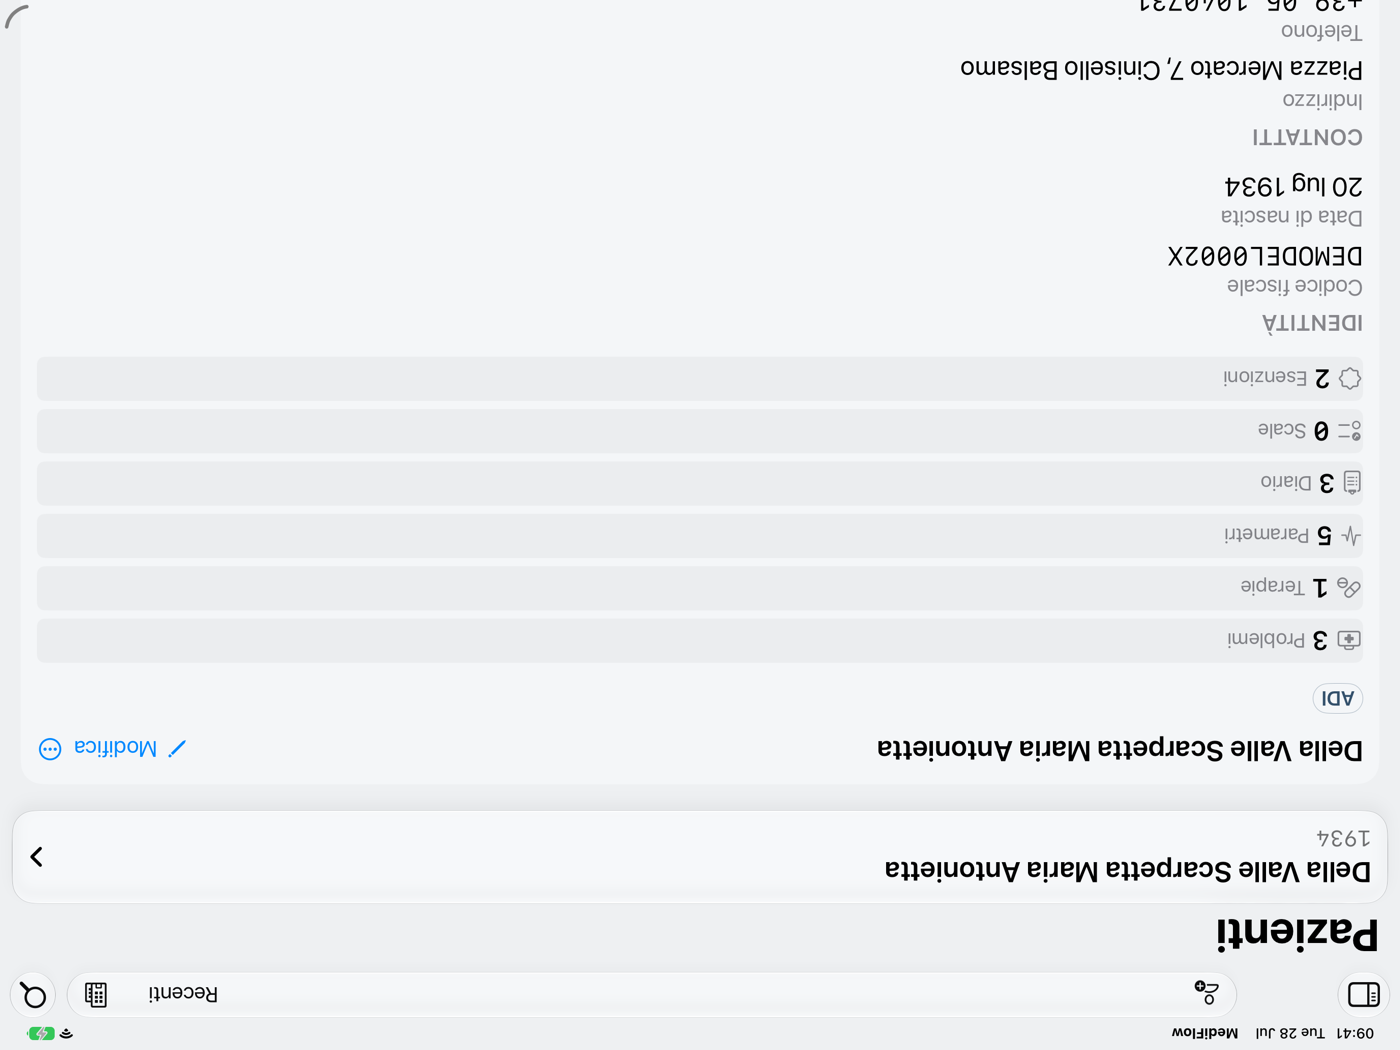
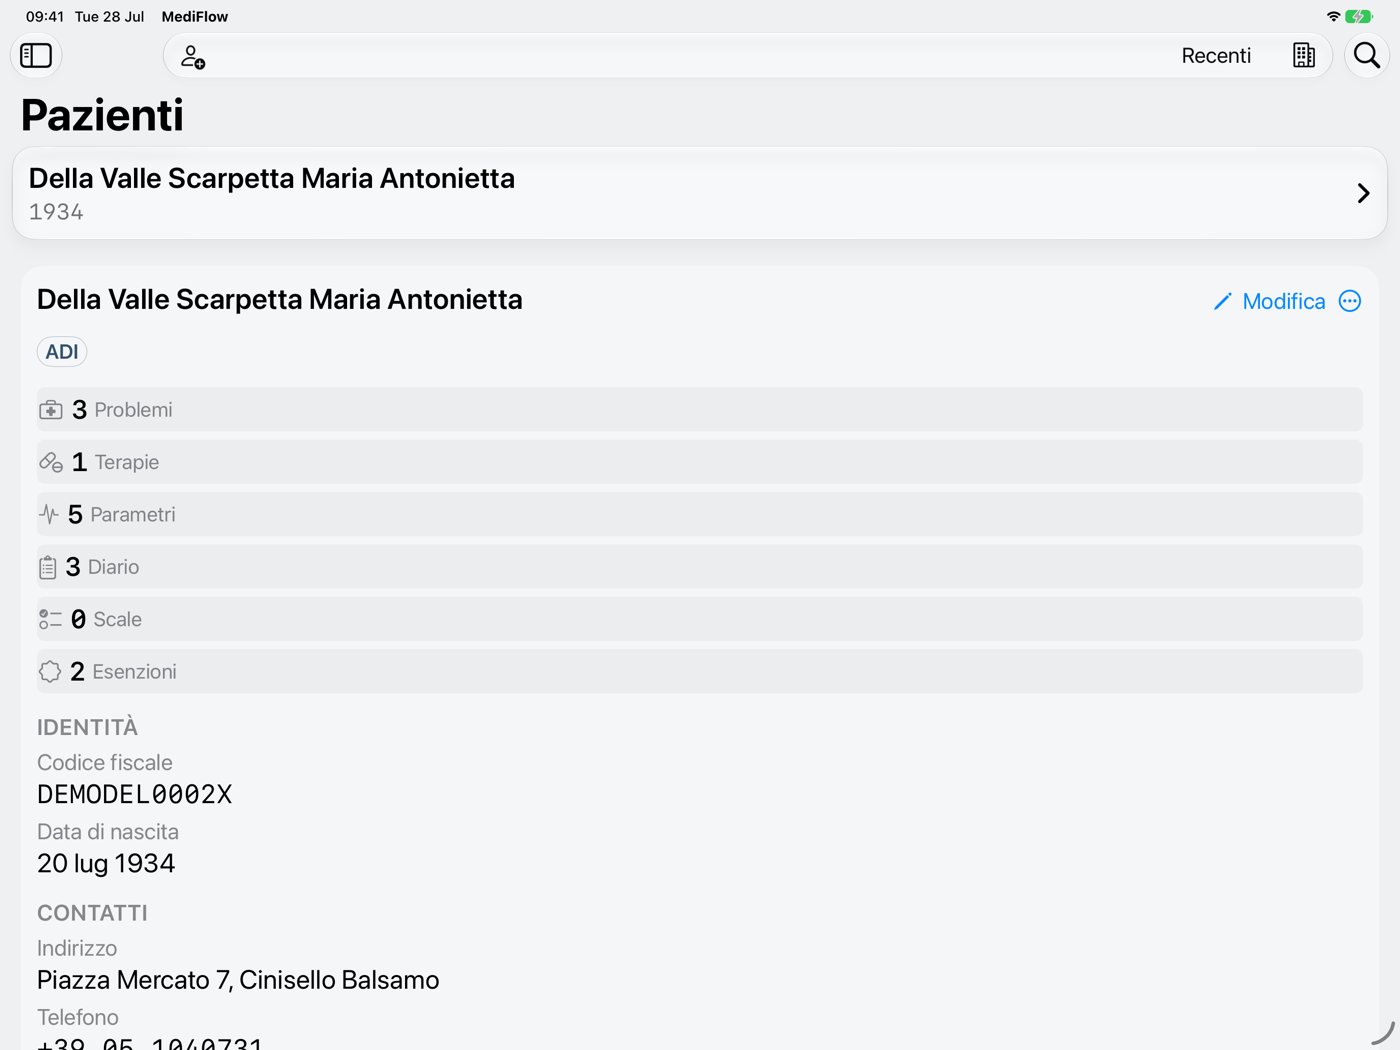
fix(release): correggi audit e screenshot iPad

diff --git a/docs/markdown-index.md b/docs/markdown-index.md
@@ -11,7 +11,7 @@ read_when:
 > GitHub mostra in alto solo alcuni file speciali (`README`, `CONTRIBUTING`, `SECURITY`, ecc.).
 > Questo file elenca invece **tutti** i `.md` tracciati nella repository con una sintesi rapida d'uso.
 
-Ultimo aggiornamento: 2026-07-28
+Ultimo aggiornamento: 2026-07-29
 
 ## 📚 Come usare questo indice
 
@@ -35,6 +35,7 @@ Ultimo aggiornamento: 2026-07-28
 | [docs/adr/0065-intended-purpose-and-claims-guard.md](./adr/0065-intended-purpose-and-claims-guard.md) | Intended purpose e guard `check:claims` contro overclaim su AI, SISS/FSE, cloud, diagnosi, triage, prescrizione e automazione. | Quando si tocca copy prodotto, UI/help, README, materiale pubblico o confini AI/SISS/FSE. |
 | [docs/adr/0072-voice-visit-capture-fluid-boundary.md](./adr/0072-voice-visit-capture-fluid-boundary.md) | Boundary proposto `WUL-419` per visite registrabili Fluid-style: no raw audio/schema/API/UI runtime nella prima slice, transcript/draft PHI e provider esterni solo tramite decisione opt-in. | Quando si lavora su visite registrabili, trascrizione visita, UI web recording-aware, benchmark transcript o sidecar macOS audio. |
 | [CHANGELOG.md](../CHANGELOG.md) | Storico release e cambiamenti rilevanti. | Al bisogno, per contesto versioni. |
+| [CREDITS.md](../CREDITS.md) | Attribuzioni per ispirazioni, modelli, librerie e runtime usati dal progetto. | Quando si verifica provenienza, licenze o uso corretto di contributi esterni. |
 
 ## 🧱 Architettura, flussi e parity
 
@@ -45,15 +46,19 @@ Ultimo aggiornamento: 2026-07-28
 | [docs/topologia-dati-flussi.md](./topologia-dati-flussi.md) | Topologia dati, trust boundaries, cifratura e percorsi digitali, inclusi artifact documentali cifrati e boundary `network-home-base`. | Per analisi data flow e impatti sicurezza. |
 | [docs/repository-topology.md](./repository-topology.md) | Fonte canonica per repository operativa, confine Git/fuori-Git e aree top-level: runtime clinico, publication/site e tooling. | Quando devi scegliere repository, branch o collocazione di codice, asset e artefatti locali. |
 | [docs/parity-matrix.md](./parity-matrix.md) | Stato canonico corrente tra localhost e client Apple, 64 capability con conteggi 30/13/21 e gate P6 residuo in `WUL-481`. | Per steering parity, click-map P6 e release readiness Apple. |
-| [docs/known-limitations.md](./known-limitations.md) | Limiti noti della candidata sorgente 0.8, inclusa la deroga esterna VoiceOver mobile e i claim non autorizzati. | Per release readiness, note pubbliche e claim di accessibilità. |
+| [docs/known-limitations.md](./known-limitations.md) | Limiti noti della candidata sorgente 0.8, inclusi VoiceOver mobile, tooling di sviluppo e claim non autorizzati. | Per release readiness, note pubbliche, security posture e claim di accessibilità. |
 | [docs/ARCHITETTURA.md](./ARCHITETTURA.md) | Deep dive tecnico esteso dell'architettura MediFlow. | Per approfondimenti implementativi. |
 | [docs/system_architecture.md](./system_architecture.md) | Sintesi rapida dell'architettura operativa aggiornata al `main` corrente: Clinical Workbench unico, home-base, document intelligence, OCR platform boundary, SISS/FSE e guardrail locali. | Per overview veloce in onboarding/review. |
+| [drizzle/README.md](../drizzle/README.md) | Ruolo storico delle migrazioni Drizzle e relazione con le schema guard runtime. | Quando si modifica schema, indice o controllo di drift SQLite. |
 
 ## 🍎 Native, setup e testing
 
 | File | Scopo | Quando consultarlo |
 | --- | --- | --- |
 | [docs/NATIVE.md](./NATIVE.md) | Guida canonica della family Apple attiva: bundle macOS packaged/home-base, client iPhone/iPad paired e core Swift condiviso. | Per struttura, build, boundary di sicurezza/parity e verifiche native correnti. |
+| [native/README.md](../native/README.md) | Layout, toolchain e comandi della universal app Apple e del package Swift condiviso. | Per build, test e orientamento nel subtree `native/`. |
+| [native/contracts/README.md](../native/contracts/README.md) | Oracoli byte-exact del core cross-platform, inclusi i vettori crittografici congelati. | Quando si modifica crittografia, portabilità del core o test golden. |
+| [native/MediFlowMac/Sources/MediFlowSQLiteC/README.md](../native/MediFlowMac/Sources/MediFlowSQLiteC/README.md) | Provenienza e regole di aggiornamento della SQLite amalgamation inclusa nel package nativo. | Quando si aggiorna SQLite vendorizzata o la build C multipiattaforma. |
 | [docs/native-setup.md](./native-setup.md) | Setup automatico ambiente client nativo. | Prima di avviare sviluppo/test native. |
 | [docs/native-launch.md](./native-launch.md) | Avvio rapido app macOS via script/launcher. | Per esecuzione operativa locale. |
 | [docs/local-api-tls.md](./local-api-tls.md) | TLS proxy locale e trasporto sicuro per native API. | Per debug networking/certificate pinning. |
@@ -93,8 +98,13 @@ Ultimo aggiornamento: 2026-07-28
 | [docs/analysis/2026-07-05-audit-esterno-v2-triage.md](./analysis/2026-07-05-audit-esterno-v2-triage.md) | Triage secondario dell'audit esterno V2, collegato a `WUL-470` e figlie `WUL-471`..`WUL-475`, con separazione tra obiezioni misframed e residui azionabili su PIN, FHIR, MDR, sync futuro e drift ADR. | Quando si rivedono le issue nate dall'audit esterno V2 o serve recuperare il razionale completo dietro il tracker Linear. |
 | [docs/analysis/2026-07-12-evoluzione-stack-intelligente-euristiche-scaffold-roadmap.md](./analysis/2026-07-12-evoluzione-stack-intelligente-euristiche-scaffold-roadmap.md) | Closeout secondario di provider scaffold, control-flow, attese locali e roadmap dello stack intelligente, riallineato alla verita di `main`. | Quando si pianifica una nuova slice AI/euristica o si verifica cosa resta oltre le PR #39, #41, #42 e #43. |
 | [docs/analysis/2026-07-17-installabilita-v0-scope.md](./analysis/2026-07-17-installabilita-v0-scope.md) | Scope e proof macOS per WUL-455: confronto bundle Node, Tauri sidecar ed Electron, raccomandazione v0, build riproducibile e limiti non provati. | Quando si pianifica l'installabilita o si verifica la proof macOS avviabile senza Node installato sulla macchina di esecuzione. |
+| [docs/analysis/2026-07-26-apple-intelligence-dettatura-e-sintesi-on-device.md](./analysis/2026-07-26-apple-intelligence-dettatura-e-sintesi-on-device.md) | Mappa read-only delle API Apple on-device per dettatura e sintesi, senza decisione o funzione attivata. | Quando si valuta una futura capacità Apple Intelligence o il relativo confine privacy. |
+| [docs/analysis/2026-07-26-handover-interfaccia-apple.md](./analysis/2026-07-26-handover-interfaccia-apple.md) | Handover storico della prima armonizzazione UI Apple universale, con rettifiche e prove disponibili. | Quando si ricostruisce la provenienza del lavoro UI Apple precedente alla candidata 0.8. |
+| [docs/analysis/2026-07-27-parita-funzioni-quattro-superfici.md](./analysis/2026-07-27-parita-funzioni-quattro-superfici.md) | Inventario storico di 186 azioni e dei divari tra web, iPhone, iPad e macOS. | Quando si confronta la matrice canonica corrente con il rilevamento iniziale dei divari. |
 | [docs/markdown-index.md](./markdown-index.md) | Indice completo markdown con sintesi. | Per navigazione completa e controllo copertura doc. |
 | [docs/openapi/README.md](./openapi/README.md) | Runbook operativo per manutenzione della spec OpenAPI `/api/v1`. | Quando si cambia il contratto client-facing o si fa review di drift. |
+| [docs/design/2026-07-26-agenda-clinica-e-scadenze.md](./design/2026-07-26-agenda-clinica-e-scadenze.md) | Intento di prodotto post-0.8 per un'agenda centrata su scadenze cliniche e terapeutiche. | Quando si pianifica l'evoluzione dell'agenda senza confonderla con lo stato consegnato. |
+| [docs/design/2026-07-26-cosa-mutuare-analisi-esterna.md](./design/2026-07-26-cosa-mutuare-analisi-esterna.md) | Confronto critico con studi e prodotti esterni per ridurre attrito senza impoverire l'informazione clinica. | Quando si valutano scelte di gerarchia, carico cognitivo o consolidamento dei flussi. |
 | [docs/design/vetro-clinico/README.md](./design/vetro-clinico/README.md) | Ingresso della baseline storica e transitoria Vetro Clinico: glossario, ordine di lettura, regole redazionali e precedenza. | Quando serve riconciliare una superficie transitoria senza usarla come destinazione attiva. |
 | [docs/design/vetro-clinico/01-fondamenta.md](./design/vetro-clinico/01-fondamenta.md) | Principi, audit onesto della baseline Vetro Clinico e decisioni vincolanti di transizione. | Quando serve distinguere stato rilevato, debito e direzione di design separata. |
 | [docs/design/vetro-clinico/02-token.md](./design/vetro-clinico/02-token.md) | Architettura token a tre livelli, palette semantica, tipografia, geometria, motion e azioni di consolidamento. | Quando si valuta una modifica a colore, corpo testo, raggio, ombra, blur o durata. |
@@ -115,7 +125,10 @@ Ultimo aggiornamento: 2026-07-28
 | [docs/design/lume/04-perlustrazione.md](./design/lume/04-perlustrazione.md) | Perlustrazione EHR/provider dietro la grammatica dell'attenzione: tre lane GPT-5.6 (applicativi USA, gestionali GP, design system sanitari aperti), 12 integrazioni normative, rifiuti, spazio bianco competitivo. | Quando si raffina worklist, provenienza, sicurezza o si studia il mercato dei gestionali. |
 | [docs/design/lume/05-app-native.md](./design/lume/05-app-native.md) | Lume nelle app native: mappa SwiftUI, grammatica compatta iPhone e note tri-OS prospettiche, con macOS come priorita operativa. | Quando si implementa Lume sui client Apple; non apre una lane Windows/Linux. |
 | [docs/design/lume/06-macos-apple-contract.md](./design/lume/06-macos-apple-contract.md) | Contratto Lume per l'app macOS reale e la futura superficie nativa primaria: card clinica opaca consegnata, componenti interni e gate ancora parziali. | Prima di progettare o implementare una superficie Lume su macOS. |
+| [docs/design/lume/07-gesto-e-movimento.md](./design/lume/07-gesto-e-movimento.md) | Grammatica Lume per gesto, movimento, focus, stato e continuità, con reduced motion per costruzione. | Quando si implementano o verificano animazioni, transizioni e feedback di interazione. |
+| [docs/design/lume/08-matrice-viste.md](./design/lume/08-matrice-viste.md) | Matrice vista-per-vista, criteri golden e ordine di migrazione delle superfici Lume. | Quando si pianifica una slice Lume o si definiscono screenshot e contratti AX. |
 | [docs/design/lume/09-icona.md](./design/lume/09-icona.md) | Specifica dell'icona MediFlow per macOS, iOS e web, con asset approvati e criteri di integrazione. | Quando si cablano o si verificano le icone dell'app e del web. |
+| [docs/design/lume/10-superficie-e-materiale.md](./design/lume/10-superficie-e-materiale.md) | Proposta misurata per la convergenza tra superfici Lume e materiali Apple. | Quando si valuta materiale, contrasto o gerarchia delle superfici; non trattarla come canone adottato. |
 | [docs/design/wul-271-kree8-visual-translation.md](./design/wul-271-kree8-visual-translation.md) | Traduzione visiva Kree8 → MediFlow per PIN gate, root entry live `/`, first real-patient cockpit slice e alias review `/mockups/kree8` (WUL-271/WUL-272/WUL-273/WUL-274). | Quando si rivede la nuova linea visuale Kree8, si verifica la root live con dati reali o si pianifica la migrazione delle superfici legacy. |
 
 ## 🧱 ADR (decisioni architetturali)
@@ -162,6 +175,8 @@ Ultimo aggiornamento: 2026-07-28
 | [docs/adr/0065-intended-purpose-and-claims-guard.md](./adr/0065-intended-purpose-and-claims-guard.md) | Fissa `WUL-279`: intended purpose, claim consentiti/esclusi e guard repo-local `check:claims` contro overclaim clinico/regolatorio. |
 | [docs/adr/0066-patient-soft-delete-lifecycle.md](./adr/0066-patient-soft-delete-lifecycle.md) | Fissa `WUL-306`: DELETE paziente come tombstone soft-delete version-guarded, cascade canonica `PATIENT_CHILD_TABLES` con guardia anti-drift, purge admin audited (`patient.purged`) e clear test-container per membership (WUL-322). |
 | [docs/adr/0068-cross-platform-runtime-windows-linux.md](./adr/0068-cross-platform-runtime-windows-linux.md) | Fissa `WUL-375`: runtime cross-platform Windows/Linux con adapter scheduler backup, gating MLX/PM2 a macOS, launcher sottili per OS e contratto unico Node 24/ABI nativa per installazione, build e avvio. |
+| [docs/adr/0070-in-house-first-for-buildable-logic.md](./adr/0070-in-house-first-for-buildable-logic.md) | Fissa l'approccio in-house-first per logica integrabile, dati ICD e moduli locali senza dipendenze opzionali obbligatorie. |
+| [docs/adr/0071-tri-os-reversed-flow-shared-core.md](./adr/0071-tri-os-reversed-flow-shared-core.md) | Definisce la direzione tri-OS a flusso invertito e i gate per un core nativo condiviso; non descrive la runtime 0.8 corrente. |
 | [docs/adr/0072-voice-visit-capture-fluid-boundary.md](./adr/0072-voice-visit-capture-fluid-boundary.md) | Propone `WUL-419`: boundary local-first per visite registrabili Fluid-style, transcript/draft PHI, provider esterni solo tramite opt-in e no runtime audio nella prima slice. |
 | [docs/adr/0073-treatment-reasoning-athena-boundary.md](./adr/0073-treatment-reasoning-athena-boundary.md) | Fissa la boundary `mediflow.treatment_reasoning.v1`: runtime locale ATHENA/MLX review-only con kill switch fail-closed, report/trace ATHENA-style e suggested actions solo review/form-prefill senza auto-write clinici. |
 | [docs/adr/0074-network-cross-patient-read-boundary.md](./adr/0074-network-cross-patient-read-boundary.md) | Fissa le letture network cross-paziente: scope obbligatorio per membership, capability dedicate, filtri plaintext, ciphertext opaco e limit con cap. |

diff --git a/docs/analysis/2026-07-27-parity-0.8-recovery-run.md b/docs/analysis/2026-07-27-parity-0.8-recovery-run.md
@@ -1719,3 +1719,52 @@ Promotion rule:
 3. push non forzato solo dopo `APPROVE_POST_COMMIT`;
 4. verifica che il ref remoto punti al commit esatto;
 5. nessun merge, tag, GitHub Release, PR o chiusura issue.
+
+### 15.32 Fresh verifier post-commit e correzioni
+
+Il safe commit iniziale era:
+
+- commit: `9393a7ef3a3050f4e5700cc5f86f159888089464`;
+- tree: `35982cd6fac85f234d914ebe3e1ac4da58e3eb43`;
+- parent: `2355a46a4dde63b1956a2298d99ef0b5c4208222`;
+- 36 path, 2395 inserimenti e 122 rimozioni;
+- worktree pulito e index vuoto.
+
+Il fresh verifier indipendente `gpt-5.6-sol/high` ha emesso
+`BLOCKED_POST_COMMIT`. Ha trovato tre falsificatori:
+
+1. `CHANGELOG.md` dichiarava 6 rilievi `npm audit`, mentre l'audit live ne
+   registrava 21 nel tooling di sviluppo;
+2. `ipados-detail.png` e l'originale erano capovolti;
+3. l'indice Markdown dichiarato completo ometteva 15 file tracciati.
+
+Il controller non ha eseguito il push.
+
+Correzioni:
+
+- changelog e limitazioni note registrano 21 rilievi dev-tooling:
+  1 low, 5 moderate, 15 high e zero critical;
+- `npm audit --omit=dev` resta PASS con zero vulnerabilità production;
+- l'immagine iPad detail, originale e ottimizzata, è stata ruotata di 180
+  gradi; il manifest registra la normalizzazione totale di 270 gradi e i nuovi
+  hash;
+- i 15 Markdown mancanti sono stati aggiunti all'indice.
+
+La lane read-only `gpt-5.6-terra/high` ha valutato una remediation delle
+dipendenze. Un candidato temporaneo portava l'audit completo a zero, ma:
+
+- forzava `esbuild` e `brace-expansion` fuori dai range dei consumer;
+- introduceva ESLint 10 con peer transitivi non allineati;
+- modificava 172 nodi del lockfile, inclusi due pacchetti browser-data di
+  produzione;
+- falliva `npm ci --dry-run --ignore-scripts --strict-peer-deps`.
+
+Verdetto della lane: `REJECT_OVERRIDE`.
+
+Decisione:
+
+- non assorbire una toolchain incompatibile nella candidata 0.8;
+- mantenere il rischio dev-tooling aperto e pubblico;
+- richiedere un packet dipendenze separato, senza override fuori range e con
+  regressione completa;
+- ripetere commit sicuro e fresh verifier sul nuovo hash prima del push.

diff --git a/docs/known-limitations.md b/docs/known-limitations.md
@@ -9,7 +9,7 @@ read_when:
 
 Stato documento: `CANONICAL`
 
-Ultimo aggiornamento: 2026-07-28
+Ultimo aggiornamento: 2026-07-29
 
 ## VoiceOver su iPhone e iPad
 
@@ -68,6 +68,31 @@ La continuità offline mobile è parziale e read-only dove documentata. La
 visibilità completa di età, TTL e staleness della cache e la riconciliazione
 restano lavoro successivo. Non esiste una coda di scrittura offline o un sync
 multi-master.
+
+## Tooling di sviluppo
+
+Con Node `v24.18.0`, l'audit delle sole dipendenze di produzione non rileva
+vulnerabilità. L'audit completo del 29 luglio 2026 rileva 21 rilievi nel
+tooling di sviluppo:
+
+- 1 low;
+- 5 moderate;
+- 15 high;
+- zero critical.
+
+Il rischio riguarda la toolchain dei contributor, non il grafo installato in
+produzione. Non è classificato come risolto.
+
+Un candidato di aggiornamento portava l'audit a zero, ma forzava versioni
+transitive fuori dai range dichiarati e falliva l'installazione
+`strict-peer-deps`. La candidata 0.8 non assorbe quel workaround.
+
+La chiusura richiede un packet dipendenze separato con:
+
+1. nessun override fuori range;
+2. installazione strict-peer verde;
+3. audit completo e production audit;
+4. lint, build, test e regressione E2E completi.
 
 ## Provider e funzioni future
 

diff --git a/CHANGELOG.md b/CHANGELOG.md
@@ -39,8 +39,11 @@ e questo progetto aderisce al [Semantic Versioning](https://semver.org/spec/v2.0
 - **Modifica**: Next.js, Sharp e PostCSS usano le versioni fissate dal
   file `package-lock.json`.
   **Stato**: integrata in `main` con la PR #138.
-  **Limite**: `npm audit` rileva sei rilievi nelle dipendenze di sviluppo. Il
-  controllo delle sole dipendenze di produzione non rileva vulnerabilità.
+  **Limite**: l'audit live del 29 luglio 2026 rileva 21 rilievi esclusivamente
+  nel tooling di sviluppo: 1 low, 5 moderate e 15 high. Il controllo delle sole
+  dipendenze di produzione non rileva vulnerabilità. Una remediation che
+  forza dipendenze fuori dai range dichiarati è stata rifiutata; serve un
+  packet separato con installazione strict-peer e regressione completa.
 - **Modifica**: il controllo del pacchetto autonomo (`standalone`) convalida
   gli artefatti nativi Sharp caricati. Rifiuta collegamenti simbolici o
   ripieghi che si risolvono fuori dal pacchetto.
